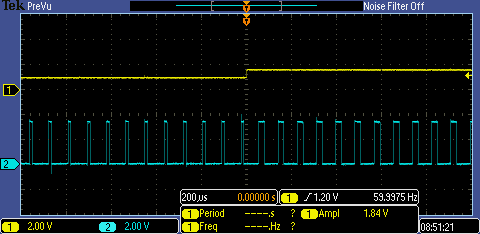
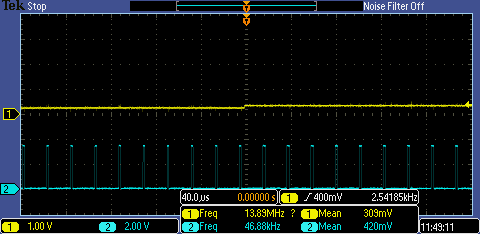
Updated pictures and documentation

diff --git a/README.md b/README.md
@@ -44,7 +44,7 @@ For modularity reasons, even though ADC and DAC frequencies can be identical, di
 
 The TPM0 generates an ADC-generated DMA-driven variable duty-cycle center-aligned PWM with a 46.875 kHz carrier frequency and an 8-bit output resolution. The duty cycle is refreshed at the same frequency, and from the same timer, as the ADC conversion.
 
-![](Documentation/pictures/pwm.png "PWM output (phase delay has been suppressed)")
+![](Documentation/pictures/pwm.png "PWM output")
 
 The `DMA0_IRQHandler` ISR restarts the DMA channel after a large number of transfers (since it cannot be kept on indefinitely).
 
@@ -66,16 +66,18 @@ One sample is always lost as the PWM register is only updated on the next timer 
 
 The actual phase delay is currently set to 1+20 samples, i.e. 118.125 degrees.
 
-![](Documentation/pictures/shift.png "Phase shifter in action")
+![](Documentation/pictures/phase-1.png "Phase delay of 64 samples (360 degrees)")
+
+![](Documentation/pictures/phase-2.png "Phase delay of 21 samples (120 degrees)")
 
 
 ### Figure of merit
 
 Pin 10 of connector J2 (PTD3) is used to output the processor load state: whenever the processor enters an ISR or leaves its idle loop, the output is set. Measuring the pin's duty cycle with the help of an oscilloscope provides a simple, yet effective, figure of merit (FoM).
 
-![](Documentation/pictures/duty-1.png "FoM visualization")
+![](Documentation/pictures/fom-1.png "FoM visualization")
 
-![](Documentation/pictures/duty-2.png "FoM (zoomed in)")
+![](Documentation/pictures/fom-2.png "FoM visualization (zoomed in)")
 
 
 ## Setup
